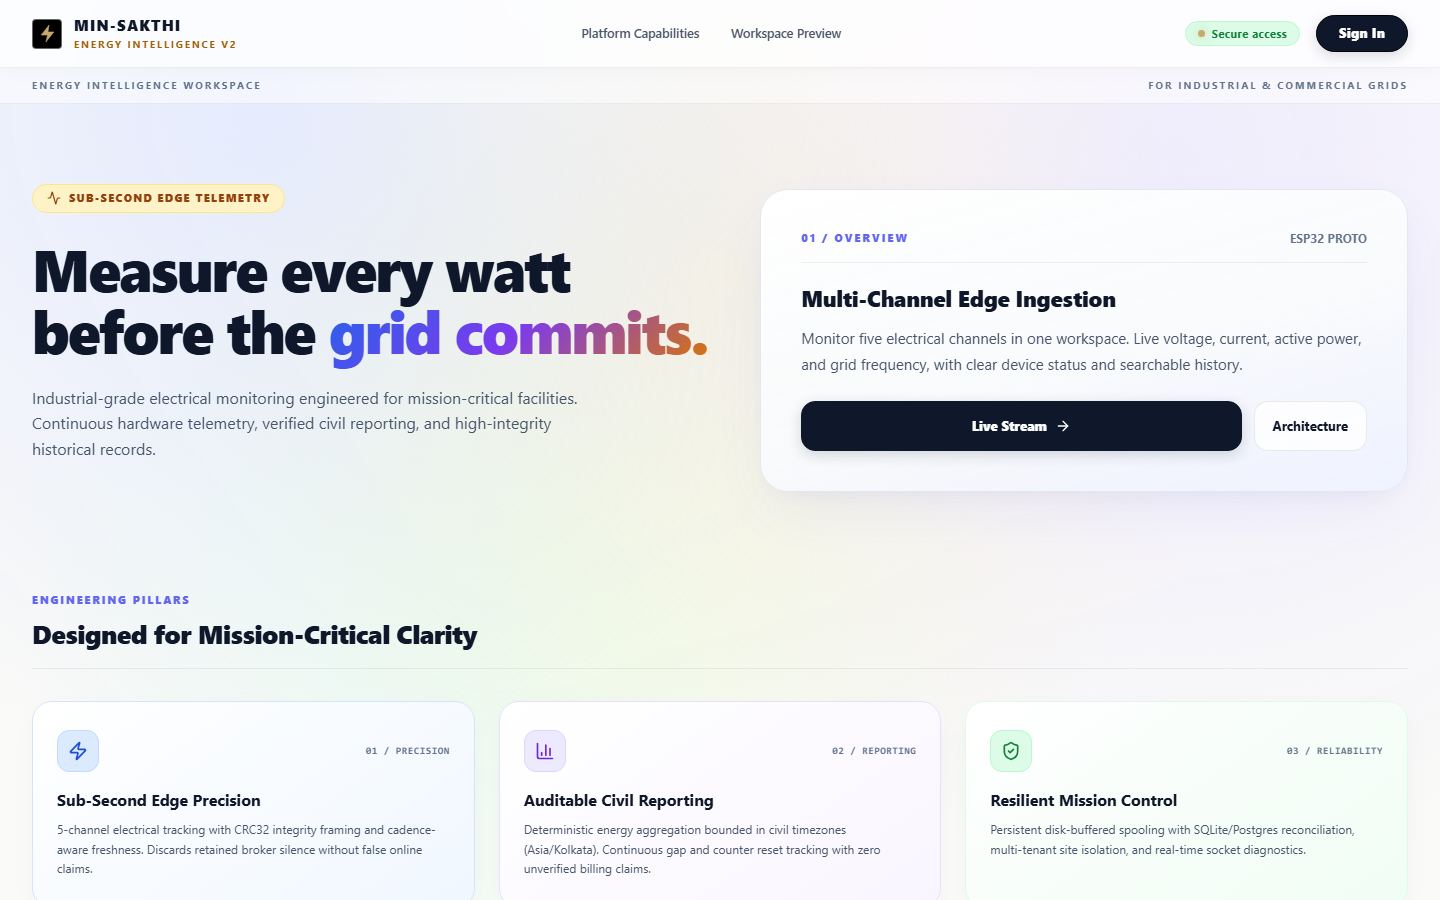
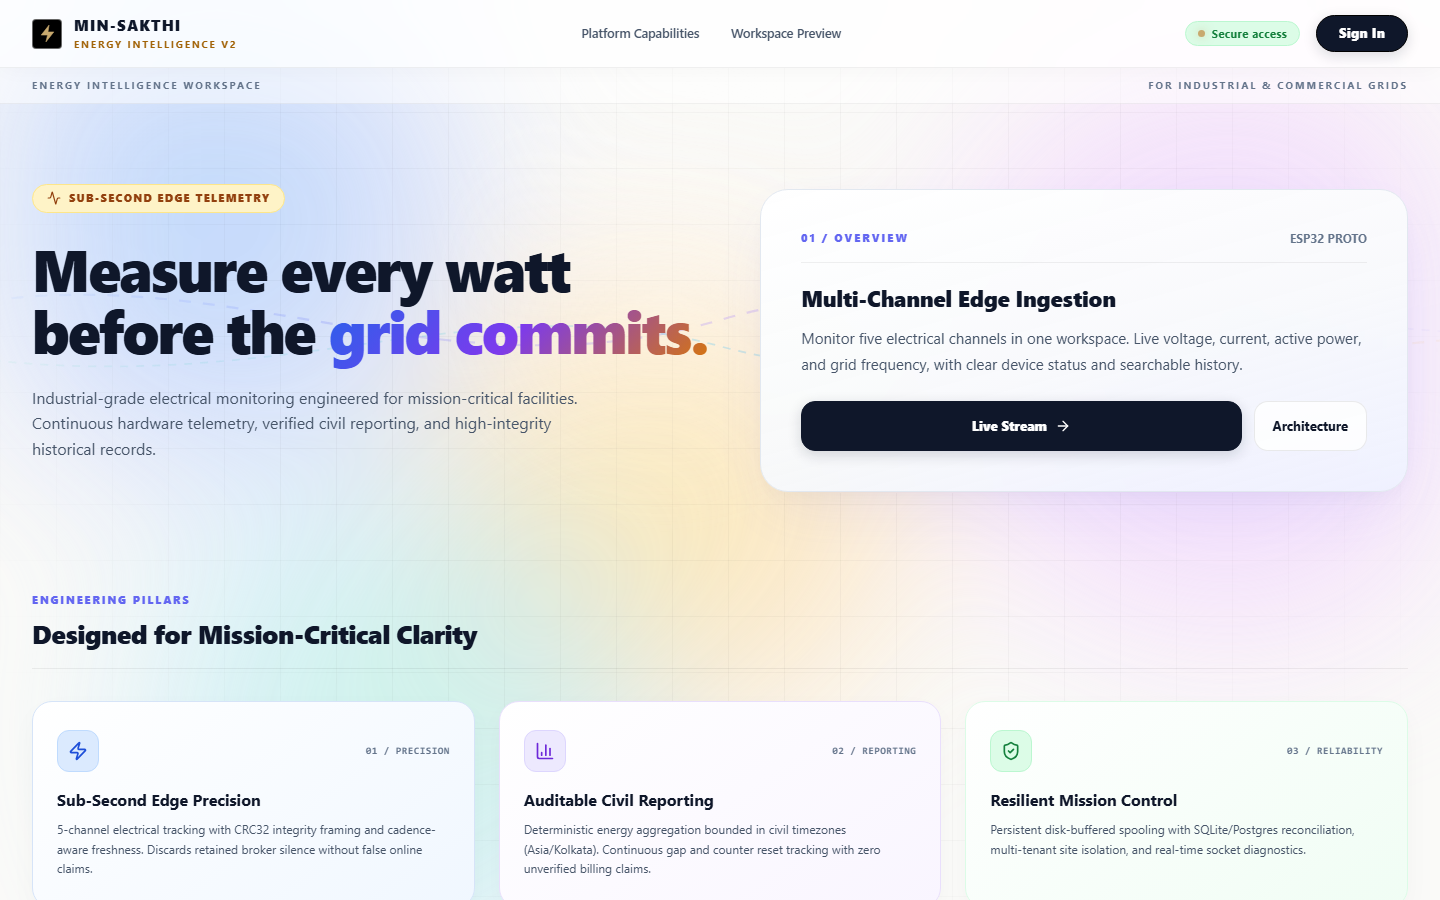
feat(landing): add animated pastel aurora orbs, subtle grid pulse, and electrical telemetry wave flow

diff --git a/apps/web/src/pages/LandingPage.css b/apps/web/src/pages/LandingPage.css
@@ -14,21 +14,156 @@
   -webkit-font-smoothing: antialiased;
 }
 
-/* Ambient Pastel Aura & Light Rays Layer */
+/* Ambient Animated Pastel Aurora & Light Rays Layer */
 .landing-ambient-layer {
   position: absolute;
   top: 0;
   left: 0;
   right: 0;
-  height: 980px;
+  height: 1040px;
   overflow: hidden;
   pointer-events: none;
   z-index: 1;
-  background:
-    radial-gradient(circle at 18% 12%, rgba(224, 231, 255, 0.8) 0%, transparent 45%),
-    radial-gradient(circle at 82% 16%, rgba(237, 233, 254, 0.8) 0%, transparent 50%),
-    radial-gradient(circle at 50% 28%, rgba(254, 243, 199, 0.7) 0%, transparent 55%),
-    radial-gradient(circle at 35% 58%, rgba(220, 252, 231, 0.55) 0%, transparent 45%);
+}
+
+/* 4 Smoothly Drifting & Pulsing Pastel Aurora Orbs */
+.landing-aurora-container {
+  position: absolute;
+  inset: 0;
+  overflow: hidden;
+  filter: blur(85px);
+  -webkit-filter: blur(85px);
+  opacity: 0.85;
+}
+
+.landing-aurora-orb {
+  position: absolute;
+  border-radius: 50%;
+  pointer-events: none;
+  will-change: transform, opacity;
+}
+
+.landing-orb-1 {
+  width: 580px;
+  height: 580px;
+  top: -80px;
+  left: -80px;
+  background: radial-gradient(circle, #93C5FD 0%, #C7D2FE 55%, transparent 75%);
+  animation: auroraDrift1 22s cubic-bezier(0.4, 0, 0.2, 1) infinite alternate;
+}
+
+.landing-orb-2 {
+  width: 620px;
+  height: 620px;
+  top: 40px;
+  right: -100px;
+  background: radial-gradient(circle, #DDD6FE 0%, #F5D0FE 55%, transparent 75%);
+  animation: auroraDrift2 26s cubic-bezier(0.4, 0, 0.2, 1) infinite alternate;
+}
+
+.landing-orb-3 {
+  width: 520px;
+  height: 520px;
+  top: 240px;
+  left: 28%;
+  background: radial-gradient(circle, #FDE68A 0%, #FED7AA 55%, transparent 75%);
+  animation: auroraDrift3 19s cubic-bezier(0.4, 0, 0.2, 1) infinite alternate;
+}
+
+.landing-orb-4 {
+  width: 560px;
+  height: 560px;
+  top: 450px;
+  left: 8%;
+  background: radial-gradient(circle, #A7F3D0 0%, #BAE6FD 55%, transparent 75%);
+  animation: auroraDrift4 28s cubic-bezier(0.4, 0, 0.2, 1) infinite alternate;
+}
+
+@keyframes auroraDrift1 {
+  0% { transform: translate3d(0, 0, 0) scale(1) rotate(0deg); opacity: 0.75; }
+  50% { transform: translate3d(90px, 60px, 0) scale(1.18) rotate(45deg); opacity: 0.95; }
+  100% { transform: translate3d(40px, 120px, 0) scale(0.92) rotate(90deg); opacity: 0.8; }
+}
+
+@keyframes auroraDrift2 {
+  0% { transform: translate3d(0, 0, 0) scale(1) rotate(0deg); opacity: 0.8; }
+  50% { transform: translate3d(-80px, 80px, 0) scale(1.15) rotate(-40deg); opacity: 0.95; }
+  100% { transform: translate3d(-120px, 30px, 0) scale(0.9) rotate(-85deg); opacity: 0.7; }
+}
+
+@keyframes auroraDrift3 {
+  0% { transform: translate3d(0, 0, 0) scale(1) rotate(0deg); opacity: 0.7; }
+  50% { transform: translate3d(60px, -50px, 0) scale(1.22) rotate(35deg); opacity: 0.92; }
+  100% { transform: translate3d(-50px, 60px, 0) scale(0.95) rotate(-30deg); opacity: 0.75; }
+}
+
+@keyframes auroraDrift4 {
+  0% { transform: translate3d(0, 0, 0) scale(1) rotate(0deg); opacity: 0.65; }
+  50% { transform: translate3d(100px, -70px, 0) scale(1.12) rotate(50deg); opacity: 0.88; }
+  100% { transform: translate3d(50px, -110px, 0) scale(0.88) rotate(100deg); opacity: 0.7; }
+}
+
+/* Architectural Subtle Grid Overlay with Atmospheric Scan */
+.landing-grid-overlay {
+  position: absolute;
+  inset: 0;
+  background-image:
+    linear-gradient(to right, rgba(0, 0, 0, 0.032) 1px, transparent 1px),
+    linear-gradient(to bottom, rgba(0, 0, 0, 0.032) 1px, transparent 1px);
+  background-size: 56px 56px;
+  mask-image: radial-gradient(ellipse at 50% 32%, black 45%, transparent 80%);
+  -webkit-mask-image: radial-gradient(ellipse at 50% 32%, black 45%, transparent 80%);
+  pointer-events: none;
+}
+
+.landing-grid-overlay::after {
+  content: '';
+  position: absolute;
+  inset: 0;
+  background: radial-gradient(circle 380px at 50% 28%, rgba(255, 255, 255, 0.65), transparent 70%);
+  animation: gridGlowPulse 9s ease-in-out infinite alternate;
+  pointer-events: none;
+}
+
+@keyframes gridGlowPulse {
+  0% { transform: scale(0.92) translate(-60px, -20px); opacity: 0.4; }
+  50% { transform: scale(1.12) translate(50px, 30px); opacity: 0.85; }
+  100% { transform: scale(0.98) translate(-30px, 15px); opacity: 0.45; }
+}
+
+/* Flowing Electrical Signal Wave Backdrop */
+.landing-wave-backdrop {
+  position: absolute;
+  top: 180px;
+  left: 0;
+  right: 0;
+  height: 280px;
+  overflow: hidden;
+  pointer-events: none;
+  opacity: 0.7;
+}
+
+.landing-wave-flow {
+  width: 100%;
+  height: 100%;
+}
+
+.landing-wave-path-1 {
+  animation: waveTravel1 32s linear infinite;
+}
+
+.landing-wave-path-2 {
+  animation: waveTravel2 24s linear infinite;
+}
+
+@keyframes waveTravel1 {
+  from { stroke-dashoffset: 720; }
+  to { stroke-dashoffset: 0; }
+}
+
+@keyframes waveTravel2 {
+  from { stroke-dashoffset: 0; }
+  to { stroke-dashoffset: 640; }
 }
 
 .landing-rays-canvas {
@@ -36,7 +171,7 @@
   inset: 0;
   width: 100%;
   height: 100%;
-  opacity: 0.38;
+  opacity: 0.32;
   mix-blend-mode: overlay;
 }
 

diff --git a/apps/web/src/pages/LandingPage.tsx b/apps/web/src/pages/LandingPage.tsx
@@ -60,18 +60,56 @@ export const LandingPage: React.FC<LandingPageProps> = ({
 
   return (
     <div className="landing-container">
-      {/* ── Volumetric Light Rays (reacts to mouse position) ── */}
+      {/* ── Ambient Layer: Animated Pastel Aurora Orbs + Grid Flow + Light Rays ── */}
       <div className="landing-ambient-layer" aria-hidden="true">
+        <div className="landing-aurora-container">
+          <div className="landing-aurora-orb landing-orb-1" />
+          <div className="landing-aurora-orb landing-orb-2" />
+          <div className="landing-aurora-orb landing-orb-3" />
+          <div className="landing-aurora-orb landing-orb-4" />
+        </div>
+        <div className="landing-grid-overlay" />
+        <div className="landing-wave-backdrop">
+          <svg viewBox="0 0 1440 320" fill="none" xmlns="http://www.w3.org/2000/svg" className="landing-wave-flow" preserveAspectRatio="none">
+            <path
+              d="M-100 160 C 200 60, 420 260, 720 160 C 1020 60, 1240 260, 1540 160"
+              stroke="url(#pastelWave1)"
+              strokeWidth="2.5"
+              strokeDasharray="12 12"
+              className="landing-wave-path-1"
+            />
+            <path
+              d="M-100 190 C 260 270, 460 110, 720 190 C 980 270, 1180 110, 1540 190"
+              stroke="url(#pastelWave2)"
+              strokeWidth="2"
+              strokeDasharray="8 8"
+              className="landing-wave-path-2"
+            />
+            <defs>
+              <linearGradient id="pastelWave1" x1="0" y1="0" x2="1" y2="0">
+                <stop offset="0%" stopColor="#93C5FD" stopOpacity="0.05" />
+                <stop offset="25%" stopColor="#818CF8" stopOpacity="0.4" />
+                <stop offset="65%" stopColor="#C084FC" stopOpacity="0.4" />
+                <stop offset="100%" stopColor="#FBBF24" stopOpacity="0.05" />
+              </linearGradient>
+              <linearGradient id="pastelWave2" x1="0" y1="0" x2="1" y2="0">
+                <stop offset="0%" stopColor="#34D399" stopOpacity="0.05" />
+                <stop offset="50%" stopColor="#38BDF8" stopOpacity="0.35" />
+                <stop offset="100%" stopColor="#A78BFA" stopOpacity="0.05" />
+              </linearGradient>
+            </defs>
+          </svg>
+        </div>
         <LightRays
           raysOrigin="top-center"
-          raysSpeed={0.5}
-          lightSpread={0.5}
-          rayLength={2.4}
-          pulsating={false}
-          fadeDistance={1.15}
+          raysSpeed={0.55}
+          lightSpread={0.55}
+          rayLength={2.6}
+          pulsating={true}
+          fadeDistance={1.2}
           followMouse={true}
-          mouseInfluence={0.06}
-          distortion={0}
+          mouseInfluence={0.08}
+          distortion={0.04}
           className="landing-rays-canvas"
         />
       </div>
